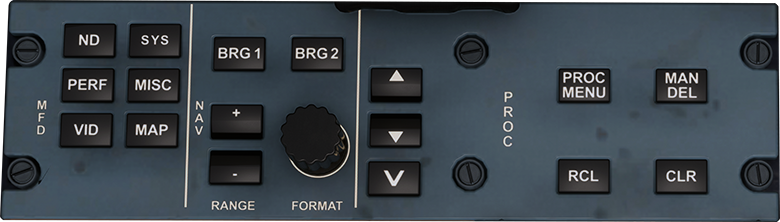
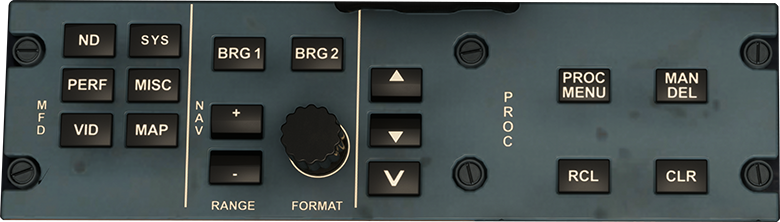
Added MCP to ATR EFIS

diff --git a/client/components/atr/Efis.tsx b/client/components/atr/Efis.tsx
@@ -3,15 +3,148 @@ import Image from "next/image";
 import { useRecoilValue } from "recoil";
 import { spadConfigState } from "../../atoms/spadConfig";
 import { clickButton } from "../../scripts/clickButton";
+import { increaseEncoder, decreaseEncoder } from "../../scripts/encoder";
 
-const buttonClass = "absolute w-[57px] h-[40px] bg-red-700 opacity-50";
+const mainButton = "absolute w-[57px] h-[40px]";
+const roundButton = "absolute w-[40px] h-[40px] rounded-full";
+const arrowButtonHor = "absolute w-[58px] h-[24px]";
+const arrowButtonVer = "absolute w-[24px] h-[58px]";
+const encoder = "absolute w-[35px] h-[77px] rounded-lg bg-red-700 opacity-30";
 
 const Efis = () => {
   const spadConfig = useRecoilValue(spadConfigState);
 
   return (
-    <div className=" flex place-content-center w-full py-20">
-      <div className="relative w-[780px] h-[222px]">
+    <div className=" flex flex-col gap-2 place-content-center w-full">
+      <div className="relative w-[495px] h-[180px] ml-[20px]">
+        <Image
+          src="/atr/MCP-left.png"
+          alt="ATR MCP Left"
+          layout="fill"
+          priority={true}
+        />
+        <button
+          className={`${mainButton} top-[18px] left-[53px]`}
+          onClick={async () =>
+            await clickButton(spadConfig, "LVAR:MSATR_MCP1_COM")
+          }
+        />
+        <button
+          className={`${mainButton} top-[68px] left-[53px]`}
+          onClick={async () =>
+            await clickButton(spadConfig, "LVAR:MSATR_MCP1_NAV")
+          }
+        />
+        <button
+          className={`${mainButton} top-[120px] left-[53px]`}
+          onClick={async () =>
+            await clickButton(spadConfig, "LVAR:MSATR_MCP1_SURV")
+          }
+        />
+        <button
+          className={`${arrowButtonHor} top-[17px] left-[140px]`}
+          onClick={async () =>
+            await clickButton(spadConfig, "LVAR:MSATR_MCP1_UP")
+          }
+        />
+        <button
+          className={`${arrowButtonHor} top-[97px] left-[140px]`}
+          onClick={async () =>
+            await clickButton(spadConfig, "LVAR:MSATR_MCP1_DOWN")
+          }
+        />
+        <button
+          className={`${arrowButtonVer} top-[40px] left-[116px]`}
+          onClick={async () =>
+            await clickButton(spadConfig, "LVAR:MSATR_MCP1_LEFT")
+          }
+        />
+        <button
+          className={`${arrowButtonVer} top-[40px] left-[197px]`}
+          onClick={async () =>
+            await clickButton(spadConfig, "LVAR:MSATR_MCP1_RIGHT")
+          }
+        />
+        <button
+          className={`${roundButton} top-[50px] left-[149px]`}
+          onClick={async () =>
+            await clickButton(spadConfig, "LVAR:MSATR_MCP1_ENTER")
+          }
+        />
+        <button
+          className={`${mainButton} top-[121px] left-[202px]`}
+          onClick={async () =>
+            await clickButton(spadConfig, "LVAR:MSATR_MCP1_ESC")
+          }
+        />
+        <button
+          className={`${roundButton} top-[23px] left-[270px]`}
+          onClick={async () =>
+            await clickButton(spadConfig, "LVAR:MSATR_MCP1_1")
+          }
+        />
+        <button
+          className={`${roundButton} top-[23px] left-[320px]`}
+          onClick={async () =>
+            await clickButton(spadConfig, "LVAR:MSATR_MCP1_2")
+          }
+        />
+        <button
+          className={`${roundButton} top-[23px] left-[370px]`}
+          onClick={async () =>
+            await clickButton(spadConfig, "LVAR:MSATR_MCP1_3")
+          }
+        />
+        <button
+          className={`${roundButton} top-[72px] left-[270px]`}
+          onClick={async () =>
+            await clickButton(spadConfig, "LVAR:MSATR_MCP1_4")
+          }
+        />
+        <button
+          className={`${roundButton} top-[72px] left-[320px]`}
+          onClick={async () =>
+            await clickButton(spadConfig, "LVAR:MSATR_MCP1_5")
+          }
+        />
+        <button
+          className={`${roundButton} top-[72px] left-[370px]`}
+          onClick={async () =>
+            await clickButton(spadConfig, "LVAR:MSATR_MCP1_6")
+          }
+        />
+        <button
+          className={`${roundButton} top-[121px] left-[270px]`}
+          onClick={async () =>
+            await clickButton(spadConfig, "LVAR:MSATR_MCP1_7")
+          }
+        />
+        <button
+          className={`${roundButton} top-[121px] left-[320px]`}
+          onClick={async () =>
+            await clickButton(spadConfig, "LVAR:MSATR_MCP1_8")
+          }
+        />
+        <button
+          className={`${roundButton} top-[121px] left-[370px]`}
+          onClick={async () =>
+            await clickButton(spadConfig, "LVAR:MSATR_MCP1_9")
+          }
+        />
+        <button
+          className={`${roundButton} top-[48px] left-[408px]`}
+          onClick={async () =>
+            await clickButton(spadConfig, "LVAR:MSATR_MCP1_0")
+          }
+        />
+        <button
+          className={`${roundButton} top-[97px] left-[408px]`}
+          onClick={async () =>
+            await clickButton(spadConfig, "LVAR:MSATR_MCP1_PERIOD")
+          }
+        />
+      </div>
+      <div className="relative w-[780px] h-[222px] ml-[10px]">
         <Image
           src="/atr/EFIS-left.png"
           alt="ATR EFIS Left"
@@ -19,21 +152,117 @@ const Efis = () => {
           priority={true}
         />
         <button
-          className={`${buttonClass} top-[65px] left-[367px]`}
+          className={`${mainButton} top-[21px] left-[60px]`}
+          onClick={async () =>
+            await clickButton(spadConfig, "LVAR:MSATR_EFIS_ND_1")
+          }
+        />
+        <button
+          className={`${mainButton} top-[66px] left-[59px]`}
+          onClick={async () =>
+            await clickButton(spadConfig, "LVAR:MSATR_EFIS_PERF_1")
+          }
+        />
+        <button
+          className={`${mainButton} top-[111px] left-[57px]`}
+          onClick={async () =>
+            await clickButton(spadConfig, "LVAR:MSATR_EFIS_VID_1")
+          }
+        />
+        <button
+          className={`${mainButton} top-[21px] left-[126px]`}
+          onClick={async () =>
+            await clickButton(spadConfig, "LVAR:MSATR_EFIS_SYS_1")
+          }
+        />
+        <button
+          className={`${mainButton} top-[66px] left-[125px]`}
+          onClick={async () =>
+            await clickButton(spadConfig, "LVAR:MSATR_EFIS_MISC_1")
+          }
+        />
+        <button
+          className={`${mainButton} top-[111px] left-[123px]`}
+          onClick={async () =>
+            await clickButton(spadConfig, "LVAR:MSATR_EFIS_MAP_1")
+          }
+        />
+        <button
+          className={`${mainButton} top-[34px] left-[210px]`}
+          onClick={async () =>
+            await clickButton(spadConfig, "LVAR:MSATR_EFIS_BRG1_1")
+          }
+        />
+        <button
+          className={`${mainButton} top-[34px] left-[289px]`}
+          onClick={async () =>
+            await clickButton(spadConfig, "LVAR:MSATR_EFIS_BRG2_1")
+          }
+        />
+        <button
+          className={`${mainButton} top-[101px] left-[208px]`}
+          onClick={async () =>
+            await clickButton(spadConfig, "LVAR:MSATR_EFIS_RNG_INC_1")
+          }
+        />
+        <button
+          className={`${mainButton} top-[148px] left-[206px]`}
+          onClick={async () =>
+            await clickButton(spadConfig, "LVAR:MSATR_EFIS_RNG_DEC_1")
+          }
+        />
+        <button
+          className={`${encoder} top-[101px] left-[272px]`}
+          onClick={async () =>
+            await increaseEncoder(spadConfig, "LVAR:MSATR_EFIS_FORMAT_1_DELTA")
+          }
+        />
+        <button
+          className={`${encoder} top-[101px] left-[312px]`}
+          onClick={async () =>
+            await decreaseEncoder(spadConfig, "LVAR:MSATR_EFIS_FORMAT_1_DELTA")
+          }
+        />
+        <button
+          className={`${mainButton} top-[65px] left-[367px]`}
           onClick={async () =>
             await clickButton(spadConfig, "LVAR:MSATR_EFIS_PROC_UP_1")
           }
         />
         <button
-          className={`${buttonClass} top-[111px] left-[367px]`}
+          className={`${mainButton} top-[111px] left-[367px]`}
           onClick={async () =>
             await clickButton(spadConfig, "LVAR:MSATR_EFIS_PROC_DN_1")
           }
         />
         <button
-          className={`${buttonClass} top-[159px] left-[365px]`}
+          className={`${mainButton} top-[159px] left-[365px]`}
           onClick={async () =>
             await clickButton(spadConfig, "LVAR:MSATR_EFIS_PROC_VAL_1")
+          }
+        />
+        <button
+          className={`${mainButton} top-[66px] left-[555px]`}
+          onClick={async () =>
+            await clickButton(spadConfig, "LVAR:MSATR_EFIS_PROC_MENU")
+          }
+        />
+        <button
+          className={`${mainButton} top-[156px] left-[555px]`}
+          onClick={async () =>
+            await clickButton(spadConfig, "LVAR:MSATR_EFIS_RCL")
+          }
+        />
+        <button
+          className={`${mainButton} top-[66px] left-[652px]`}
+          onClick={async () =>
+            await clickButton(spadConfig, "LVAR:MSATR_EFIS_MAN_DEL")
+          }
+        />
+        <button
+          className={`${mainButton} top-[156px] left-[652px]`}
+          onClick={async () =>
+            await clickButton(spadConfig, "LVAR:MSATR_EFIS_CLR")
           }
         />
       </div>

diff --git a/client/scripts/encoder.ts b/client/scripts/encoder.ts
@@ -1,0 +1,37 @@
+import { SpadConfig } from "../atoms/spadConfig";
+import { DataSet } from "../spadAPI/dataSet";
+import { timeout } from "./timeout";
+
+const increaseEncoder = async (spadConfig: SpadConfig, name: string) => {
+  await DataSet({
+    url: `${spadConfig.address}:${spadConfig.port}`,
+    apikey: spadConfig.apiKey,
+    name,
+    value: "1",
+  });
+  await timeout(500);
+  await DataSet({
+    url: `${spadConfig.address}:${spadConfig.port}`,
+    apikey: spadConfig.apiKey,
+    name,
+    value: "0",
+  });
+};
+
+const decreaseEncoder = async (spadConfig: SpadConfig, name: string) => {
+  await DataSet({
+    url: `${spadConfig.address}:${spadConfig.port}`,
+    apikey: spadConfig.apiKey,
+    name,
+    value: "-1",
+  });
+  await timeout(500);
+  await DataSet({
+    url: `${spadConfig.address}:${spadConfig.port}`,
+    apikey: spadConfig.apiKey,
+    name,
+    value: "0",
+  });
+};
+
+export { increaseEncoder, decreaseEncoder };

diff --git a/client/components/atr/Tabs.tsx b/client/components/atr/Tabs.tsx
@@ -13,7 +13,7 @@ const ModuleTabs = ({ pane, setPane }: TabsProps) => {
           className={pane === "efis" ? tabClassCurrent : tabClass}
           onClick={() => setPane("efis")}
         >
-          Efis
+          MCP / EFIS
         </button>
       </li>
     </Tabs>
